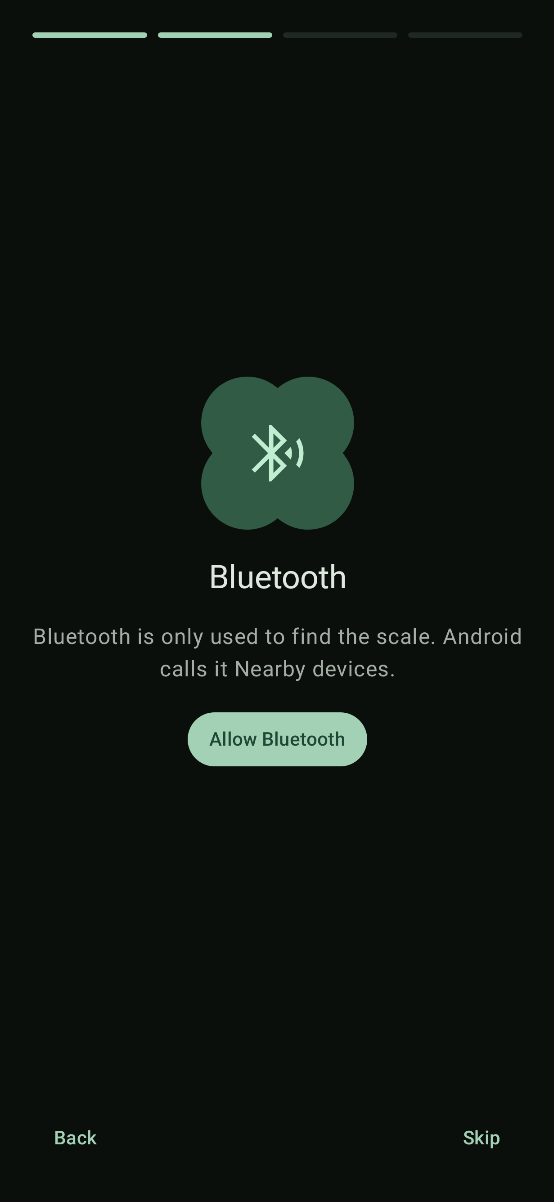
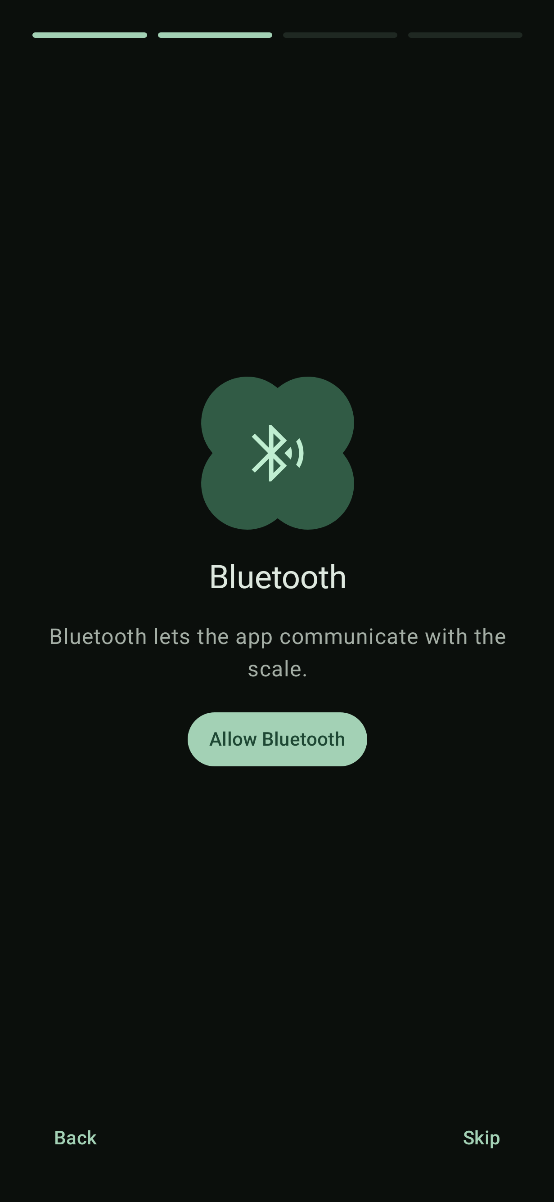
Adapt app copy in English and Portuguese

Changed region(s): [[0.0614, 0.5233, 0.9513, 0.5849]]

diff --git a/app/src/test/java/io/github/mateuxlucax/caparao/ui/widget/BrewWidgetBehaviorTest.kt b/app/src/test/java/io/github/mateuxlucax/caparao/ui/widget/BrewWidgetBehaviorTest.kt
@@ -44,7 +44,7 @@ class BrewWidgetBehaviorTest {
         assertEquals("You haven't made coffee yet", english.getString(R.string.widget_empty_title))
         assertEquals("Você ainda não fez café", portuguese.getString(R.string.widget_empty_title))
         assertEquals("Brew a coffee", english.getString(R.string.widget_brew_coffee))
-        assertEquals("Passar um café", portuguese.getString(R.string.widget_brew_coffee))
+        assertEquals("Preparar um café", portuguese.getString(R.string.widget_brew_coffee))
     }
 
     private fun localized(context: Context, locale: Locale): Context =

diff --git a/docs/copy.md b/docs/copy.md
@@ -1,116 +1,129 @@
 # Copy guide
 
 How the app talks. Every string lives in `values/strings.xml` (English, default) and `values-pt-rBR/strings.xml`
-(Portuguese, Brazil); `TranslationsTest` keeps the keys in sync. Write both at the same time, and write each one as a
-native speaker would say it, not as a translation of the other.
+(Portuguese, Brazil); `TranslationsTest` keeps the keys and format arguments in sync. Write both at the same time, in
+the voice a native speaker would use.
 
 ## Voice
 
-- **Direct.** Say what is happening or what to do. No greetings, no "Oops!", no exclamation marks.
-- **Calm.** The user is holding a kettle or a portafilter. Short sentences, one idea each.
-- **Idle moments.** Empty states may be short and playful, with one line and no subtitle. Instructions during a brew stay calm and direct. Still no exclamation marks or emoji.
-- **Honest about data.** Say where brews live ("Only on this phone", "Server set. Nothing sent yet.") and what the app
-  will do next ("The app tries again later.").
-- **Plain.** No marketing, no emoji, no jargon the user doesn't already use at the bar. Coffee terms are fine; tech
-  terms only when Android uses them too (Bluetooth, Nearby devices, URL, token).
+- **Direct and useful.** Give each line one job: name a status, give an instruction, or provide context the user needs
+  to decide or act. Keep only details that help with that job.
+- **Calm.** The user may be holding a kettle or portafilter. Use short sentences and one idea at a time.
+- **Warm.** Onboarding can open with a welcoming, benefit-led headline. Keep routine statuses and instructions
+  understated; use playfulness only when it sounds natural.
+- **Honest about data.** Say where brews are stored or whether they are synced when that affects the user's choice or
+  understanding (`Only on this phone`, `Server set. Nothing synced yet`). Distinguish saved, sent and synced data.
+- **Plain.** Use familiar words, with coffee terms used at the bar and Android's own permission names where relevant.
+  Keep technical details in the UI only when they help the user act.
 
 ## Mechanics
 
 | Rule | EN | pt-BR |
 | --- | --- | --- |
-| Capitalization | Sentence case everywhere, titles and buttons included | Same |
-| Address | "you", imperative for instructions | "você", imperative (`Ligue`, `Segure`) |
-| Ellipsis | `…` (one character) for ongoing states: `Connecting…` | `Conectando…` |
-| Final period | Full sentences end with a period; titles, labels and buttons don't | Same |
-| Numbers and units | Formatting comes from code, never hardcoded in a string; units are `g` and `g/s` | Same; the locale gives the decimal comma |
+| Capitalization | Sentence case everywhere, including titles and buttons | Same |
+| Address | Use "you"; use the imperative for instructions | Use "você"; use the imperative (`Ligue`, `Segure`) |
+| Ellipsis | Use `…` (one character) for ongoing states: `Connecting…` | `Conectando…` |
+| Final period | Full sentences end with a period; titles, labels and buttons do not | Same |
+| Numbers and units | Formatting comes from code; units are `g` and `g/s` | Same; the locale supplies the decimal comma |
 | Ratio | `1:%1$s` | Same |
-| Contractions | Allowed when spoken (`won't`, `Couldn't`) | n/a |
+| Contractions | Use natural contractions (`won't`, `Couldn't`) | n/a |
 | App name | `Caparaó`, never translated | Same |
-| Scale | "the scale" in instructions, "the Dot" when the model matters (pairing, onboarding) | "a balança", "a Dot" (feminine) |
+| Scale | Say "the scale" in instructions and "the Dot" when the model matters, such as pairing or onboarding | Say "a balança" and "a Dot" (feminine) |
 
 ## Terminology
 
-Use these and only these. Adding a term means adding it here.
+Use these terms consistently. Add a term here when the app needs one.
 
 | Concept | EN | pt-BR | Notes |
 | --- | --- | --- | --- |
-| One recorded extraction | brew | preparo | Not "shot" in lists; "shot" only in espresso instructions |
+| One recorded extraction | brew | preparo | Use in lists; use "shot" only in espresso instructions |
 | Brewing method: filter | Filter | Filtrado | |
-| Brewing method: espresso | Espresso | Espresso | Not "expresso" |
+| Brewing method: espresso | Espresso | Espresso | |
 | Brewing method: French press | French press | Prensa francesa | |
-| Mode selector, short labels | Manual · Filter · Espresso · Press | Manual · Filtrado · Espresso · Prensa | One line under the icon in Home, Recipes and the editor; the full method names stay available to accessibility. |
+| Mode selector, short labels | Manual · Filter · Espresso · Press | Manual · Filtrado · Espresso · Prensa | One line under the icon in Home, Recipes and the editor; full method names remain available to accessibility. |
 | Home selector, manual scale accessible name | Manual scale | Balança manual | Manual stays the scale screen, not a brew mode. |
 | French press steeping stage | Steep · Let it steep | Infusão · Deixe em infusão | No press instruction before the deadline: remove first, then press and serve. |
 | Ground coffee weight | dose | dose | |
 | Liquid out (espresso) | yield | bebida | |
 | Water poured (filter) | water | água | |
-| Weekly widget estimate | brewed beverage and caffeine estimates | estimativas da bebida preparada e da cafeína | Approximate amounts brewed, never an estimate of what was consumed or health advice |
+| Weekly widget estimate | estimated beverage and caffeine | estimativas da bebida preparada e da cafeína | Approximate brewed amounts; never imply consumption or health advice |
 | Coffee:water | ratio | razão | Shown as `1:16` |
 | Weight per second | flow | fluxo | `g/s` |
 | Zero the scale | tare | tara (noun), tarar (verb) | |
 | Live espresso state | Extracting | Extraindo | |
 | Live filter state | Brewing | Passando | |
 | First liquid in the cup | first drop | primeira gota | |
-| Bluetooth link | connect / pair | conectar / parear | Pair only for the Dot's one-phone pairing |
-| Remote copy | send / sync | enviar / sincronizar | "send" for actions, "sync" for timestamps |
-| Optional server | server | servidor | Always "Optional" when introduced |
+| Bluetooth link | connect / pair | conectar / parear | Bluetooth lets the app communicate with the scale; the Dot pairs with one phone at a time |
+| Remote copy | send / sync | enviar / sincronizar | Use "send" for an upload action and "sync" for a timestamp or sync status |
+| Optional server | server | servidor | Call it optional when first introduced |
 | Saved way to brew | recipe | receita | |
 | Brew without a recipe | free brew | preparo livre | |
 | Part of a filter recipe | step | etapa | |
-| First small pour that wets the bed | bloom | bloom | Not translated at the bar |
+| First small pour that wets the bed | bloom | bloom | |
 | Pouring water to a target | pour | despejo | |
 | Pause between pours | wait | espera | |
 | Stirring the slurry by moving the dripper | swirl | agitar | |
-| Grinder setting | grind | moagem | Free text: grinders have no common scale |
-| The beans used | coffee | café | Free text, the last one suggested |
+| Grinder setting | grind | moagem | Free text; grinders have no common scale |
+| The beans used | coffee | café | Free text; suggest the last one used |
 | How it tasted, 1 to 5 | rating | nota | Stars |
-| Free text about a brew | notes | anotações | "notas" for a recipe's notes |
+| Free text about a brew | notes | anotações | Use "notas" for a recipe's notes |
 
 ## Patterns
 
 ### Buttons
 
-- One or two words, a verb: `Tare`, `Save`, `Retry`, `Use weight`, `Test connection`.
-- Name the outcome, not the mechanism: `Turn on Bluetooth`, not `Open settings` when we open the Bluetooth toggle.
-- Destructive actions say the thing: `Delete`, `Discard`, `Remove server`. Pair them with `Cancel`.
+- Use one or two words and name an action: `Tare`, `Save`, `Retry`, `Use weight`, `Test connection`.
+- Name the outcome (`Turn on Bluetooth`) when the button opens a setting or performs that action.
+- Name destructive actions directly (`Delete`, `Discard`, `Remove server`) and pair them with `Cancel`.
 - pt-BR uses the infinitive: `Salvar`, `Descartar`, `Ligar Bluetooth`.
 
 ### Errors
 
-Two parts, each its own string:
+State the problem briefly. Add an instruction when the user can resolve it, and make the action specific. Where an error
+has a title and hint, give each its own string:
 
-1. **Title**: what is wrong, no blame, no period. `Scale not found` / `Balança não encontrada`.
-2. **Hint**: what to do, in order, ending with the action. `Turn the scale on and bring it closer to the phone.`
+1. **Title:** name the problem, without blame or a period (`Scale not found` / `Balança não encontrada`).
+2. **Hint:** give the action, ending with that action (`Turn the scale on and bring it closer to the phone.`).
 
-Background failures say what the app does next: `Couldn't reach the server. The app tries again later.` Never show
-exception text, status codes or addresses; the debug log is where those go.
+Use a short status for background failures that need no action (`Couldn't reach the server.`). Mention background
+retry behavior only where it helps; keep each failure message focused on the problem. Keep exception text, status codes
+and addresses in the debug log.
 
 ### Empty states
 
-Empty states may use a short, playful title as their only line. No subtitle.
-For example: `You haven't made coffee yet` / `Você ainda não fez café`.
+Use a short, useful title. Make a subtitle add distinct context or a next step. Keep the tone natural, with playfulness
+only when it fits. For example: `You haven't made coffee yet` / `Você ainda não fez café`.
 
 ### Progress and status
 
-- Ongoing: present participle with `…` (`Looking for the scale…`, `Taring…`).
-- Finished: past participle, short (`Saved`, `Scale connected`, `Log copied`).
-- Brew guidance tells the user the next physical step, then what the app does on its own:
-  `Put the cup on the scale` / `It tares by itself once the cup is still.`
+- Ongoing: use a present participle with `…` (`Looking for the scale…`, `Taring…`).
+- Finished: use a short past participle (`Saved`, `Scale connected`, `Log copied`).
+- Brew guidance focuses on the current step. Explain an automatic response when it helps the user understand that
+  step, and wait to introduce later actions until they are relevant. For example: `Put the cup on the scale. The scale
+  tares once the cup is steady.`
+
+### Weekly widget
+
+Prefix estimated beverage volume and caffeine values with `≈`. Use their labels (`Beverage`, `Caffeine`) without an
+extra subtitle explaining that they are estimates. Dose is recorded, so show it without `≈`. Describe beverage as
+brewed and caffeine as estimated caffeine in the brew, never as amounts consumed.
 
 ### Confirmations
 
-A question in the title (`Delete this brew?`), buttons `Delete` and `Cancel`. Add a line only when something can't be
-undone that the title doesn't already say.
+Put the question in the title (`Delete this brew?`) and use `Delete` and `Cancel` for the actions. Add a line only when
+it explains an effect that the title does not already make clear.
 
 ### Settings and permissions
 
-Say why before asking: `Bluetooth is only used to find the scale. Android calls it Nearby devices.` Use Android's
-own names for its settings (Nearby devices / Dispositivos por perto).
+Explain why the app needs access before asking. Say that Bluetooth lets the app communicate with the scale. Use the
+permission name Android shows (`Nearby devices` / `Dispositivos por perto`); use the same approach for local network
+access. Keep permission text specific about what the app does with that access.
 
 ## Checklist for a new string
 
-- [ ] Key added to both files, grouped under the same comment.
-- [ ] Terms from the table above.
-- [ ] Sentence case, period only on full sentences, `…` for ongoing states.
-- [ ] Fits on one line on a small phone in both languages (pt-BR runs ~20% longer).
-- [ ] No scale address, device name or real server in examples (`coffee.example.com`).
+- [ ] Add the key to both language files under the same comment.
+- [ ] Use terminology from the table above.
+- [ ] Use sentence case, periods only on full sentences and `…` for ongoing states.
+- [ ] Keep titles, labels and buttons concise; let body and onboarding text wrap naturally without clipping. Check both
+  languages on a small phone (pt-BR runs about 20% longer).
+- [ ] Keep device addresses, device names and real server details out of public examples; use `coffee.example.com`.
